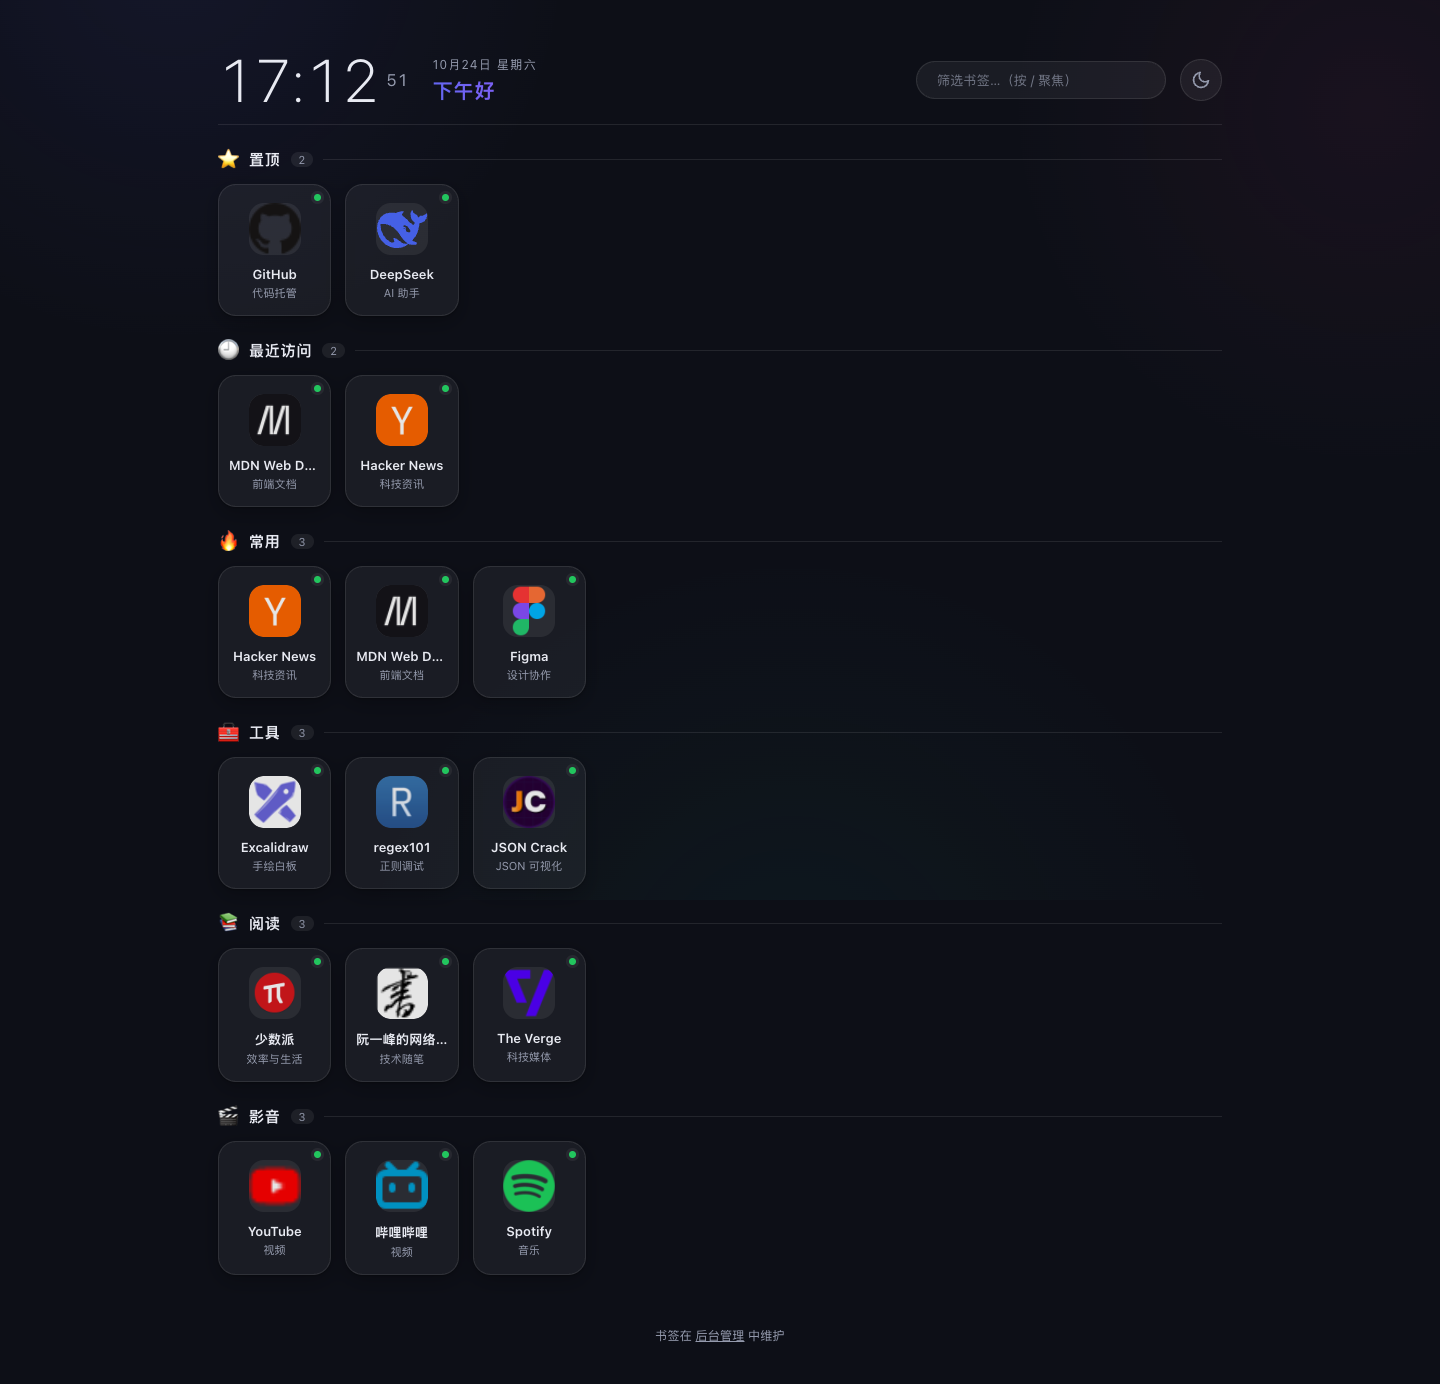
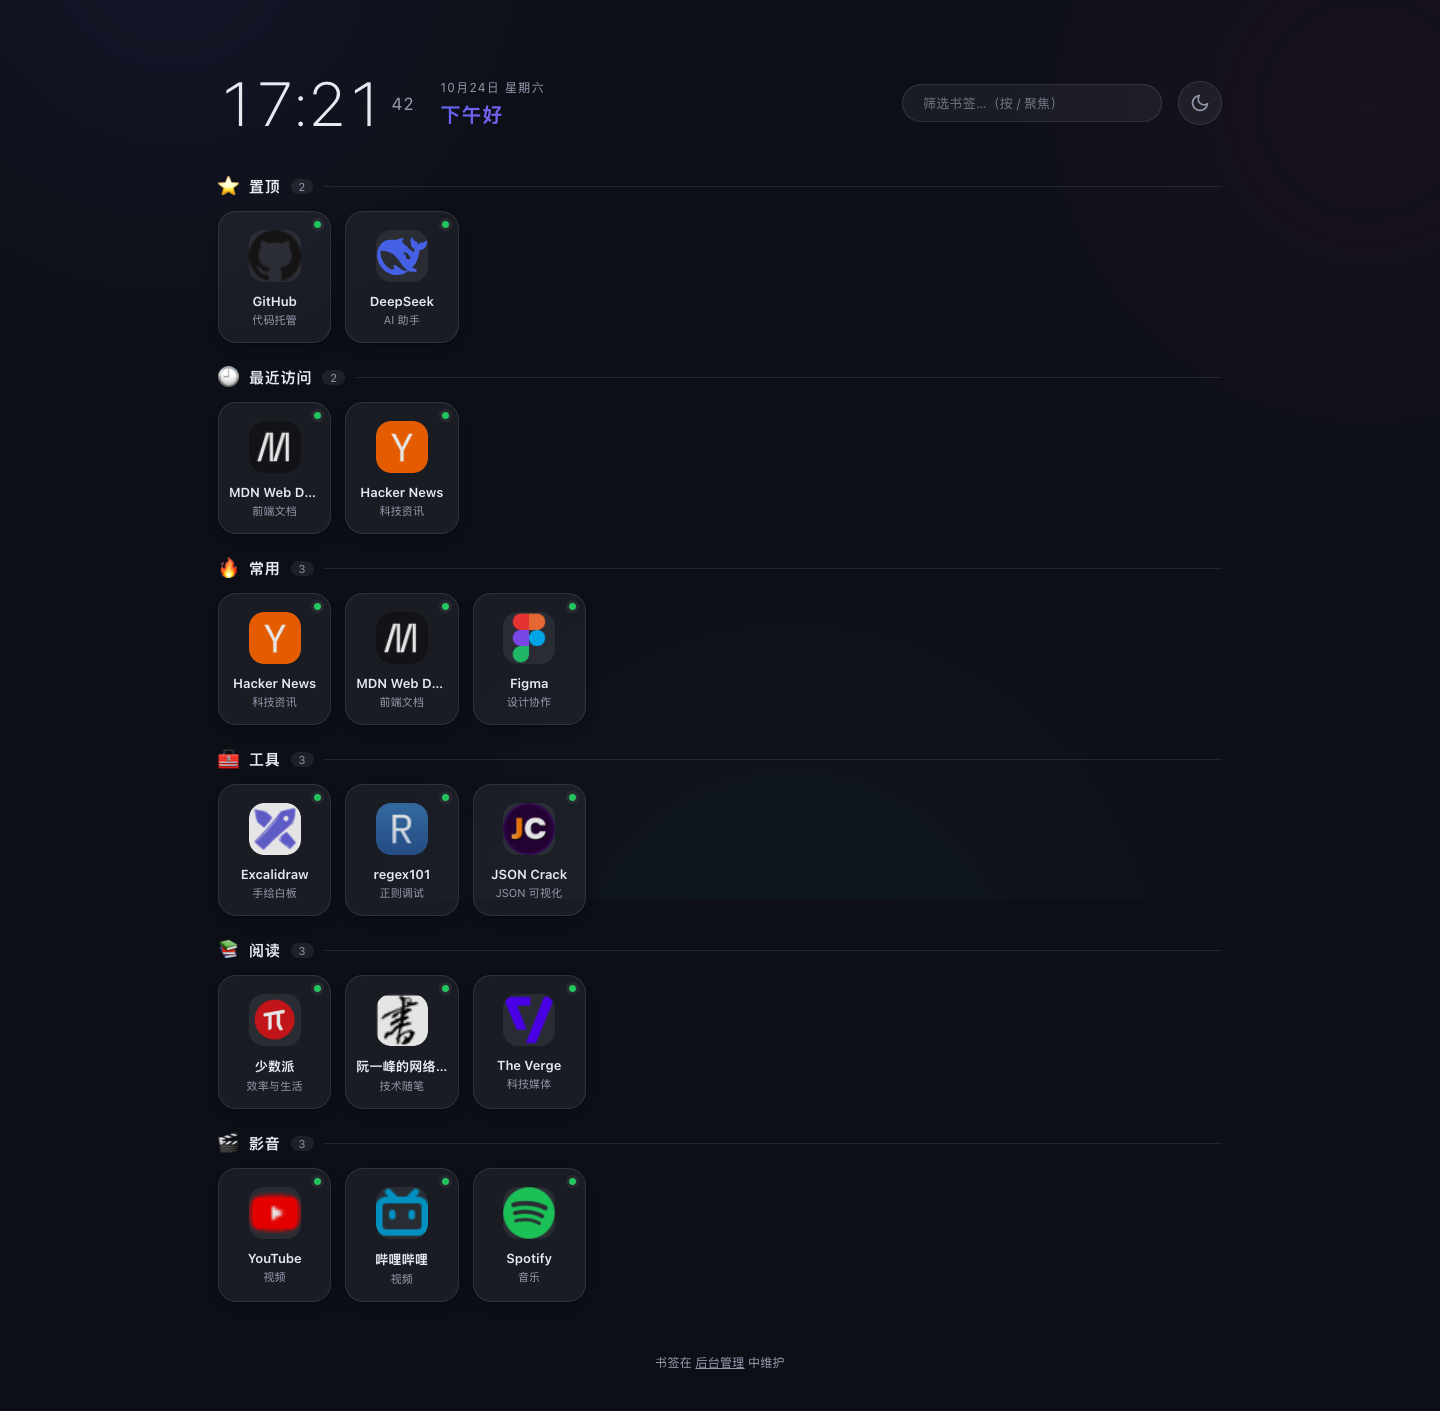
release: v1.1.4

diff --git a/static/style.css b/static/style.css
@@ -66,7 +66,7 @@ body::before {
 .page {
   max-width: 1060px;
   margin: 0 auto;
-  padding: clamp(30px, 5.5vh, 64px) 28px 40px;
+  padding: clamp(36px, 8vh, 88px) 28px 40px;
 }
 
 ::selection { background: rgba(99, 102, 241, 0.25); }
@@ -79,20 +79,19 @@ body::before {
   align-items: center;
   justify-content: space-between;
   gap: 32px;
-  padding-bottom: 14px;
-  border-bottom: 1px solid var(--border);
+  padding-bottom: 12px;
   animation: rise 0.6s ease both;
 }
 
 .hero {
   display: flex;
   align-items: center;
-  gap: 24px;
+  gap: 26px;
   min-width: 0;
 }
 
 .clock-time {
-  font-size: clamp(44px, 5vw, 60px);
+  font-size: clamp(46px, 5.2vw, 62px);
   font-weight: 200;
   line-height: 1;
   letter-spacing: 1px;
@@ -110,7 +109,7 @@ body::before {
 .hero-meta {
   display: flex;
   flex-direction: column;
-  gap: 5px;
+  gap: 6px;
   min-width: 0;
 }
 
@@ -139,7 +138,7 @@ body::before {
 .top-actions {
   display: flex;
   align-items: center;
-  gap: 14px;
+  gap: 16px;
   flex-shrink: 0;
 }
 
@@ -151,7 +150,7 @@ body::before {
   border: 1px solid var(--border);
   border-radius: 999px;
   padding: 10px 20px;
-  width: 250px;
+  width: 260px;
   outline: none;
   backdrop-filter: blur(12px);
   -webkit-backdrop-filter: blur(12px);
@@ -165,8 +164,8 @@ body::before {
 
 /* 主题切换按钮 */
 .theme-toggle {
-  width: 42px;
-  height: 42px;
+  width: 44px;
+  height: 44px;
   flex-shrink: 0;
   display: grid;
   place-items: center;
@@ -187,7 +186,7 @@ body::before {
 [data-theme="dark"] .icon-moon { display: block; }
 
 /* ---------- 书签分类 ---------- */
-.categories { margin-top: 24px; }
+.categories { margin-top: 30px; }
 
 .category { animation: rise 0.6s ease both; }
 
@@ -530,7 +529,8 @@ body::before {
 
 /* 窄屏：时钟与日期问候占一行，筛选和主题切换放下一行 */
 @media (max-width: 760px) {
-  .page { padding-top: clamp(20px, 4vh, 40px); }
+  .page { padding-top: clamp(24px, 4.5vh, 48px); }
+  .categories { margin-top: 24px; }
   .topbar { flex-wrap: wrap; align-items: flex-end; gap: 18px; }
   .hero { width: 100%; justify-content: space-between; gap: 14px; }
   .hero-meta { align-items: flex-end; text-align: right; }

diff --git a/static/index.html b/static/index.html
@@ -6,7 +6,7 @@
   <meta name="theme-color" media="(prefers-color-scheme: light)" content="#f4f5fb" />
   <meta name="theme-color" media="(prefers-color-scheme: dark)"  content="#0d0f17" />
   <title>Lodestar · 我的导航</title>
-  <link rel="stylesheet" href="style.css?v=14" />
+  <link rel="stylesheet" href="style.css?v=15" />
   <link rel="manifest" href="/manifest.webmanifest" />
   <link rel="icon" href="/icon.svg" type="image/svg+xml" />
 </head>

diff --git a/static/admin.html b/static/admin.html
@@ -5,7 +5,7 @@
   <meta name="viewport" content="width=device-width, initial-scale=1.0" />
   <meta name="robots" content="noindex" />
   <title>Lodestar · 后台管理</title>
-  <link rel="stylesheet" href="style.css?v=14" />
+  <link rel="stylesheet" href="style.css?v=15" />
 </head>
 <body>
   <!-- 登录卡片或编辑器，由 admin.js 根据登录状态渲染 -->

diff --git a/CHANGELOG.md b/CHANGELOG.md
@@ -5,6 +5,13 @@
 
 ## [Unreleased]
 
+## [1.1.4] - 2026-10-24
+
+### Changed
+
+- 移除工具栏底部分割线
+- 进一步增加顶部留白、时钟字号与工具栏间距；桌面端内容区起点约 178px，移动端约 182px
+
 ## [1.1.3] - 2026-10-24
 
 ### Changed
@@ -85,7 +92,8 @@
 - 图标代理仅允许书签中出现过的 host，避免被滥用为公开代理
 - 仓库仅包含演示书签数据，真实数据通过 `.gitignore` 排除
 
-[Unreleased]: https://github.com/XiaolongZhang-dev/lodestar/compare/v1.1.3...HEAD
+[Unreleased]: https://github.com/XiaolongZhang-dev/lodestar/compare/v1.1.4...HEAD
+[1.1.4]: https://github.com/XiaolongZhang-dev/lodestar/releases/tag/v1.1.4
 [1.1.3]: https://github.com/XiaolongZhang-dev/lodestar/releases/tag/v1.1.3
 [1.1.2]: https://github.com/XiaolongZhang-dev/lodestar/releases/tag/v1.1.2
 [1.1.1]: https://github.com/XiaolongZhang-dev/lodestar/releases/tag/v1.1.1

diff --git a/README.md b/README.md
@@ -61,7 +61,7 @@ docker compose -f docker-compose.image.yml up -d
 ```
 
 - 已有数据目录时，在 `.env` 中设置 `LODESTAR_DATA_DIR=/你的路径/data`
-- 想固定版本可设置 `LODESTAR_IMAGE=acc110789/lodestar:1.1.3`
+- 想固定版本可设置 `LODESTAR_IMAGE=acc110789/lodestar:1.1.4`
 - 也可以把这个文件复制为 `docker-compose.yml` 后直接 `docker compose up -d`
 
 也可以直接 `docker run`：

diff --git a/README.en.md b/README.en.md
@@ -64,7 +64,7 @@ docker compose -f docker-compose.image.yml up -d
 ```
 
 - If you already have a data directory, set `LODESTAR_DATA_DIR=/path/to/data` in `.env`
-- Pin a version with `LODESTAR_IMAGE=acc110789/lodestar:1.1.3`
+- Pin a version with `LODESTAR_IMAGE=acc110789/lodestar:1.1.4`
 - You can also copy the file to `docker-compose.yml` and run `docker compose up -d`
 
 Or run directly with `docker run`:
